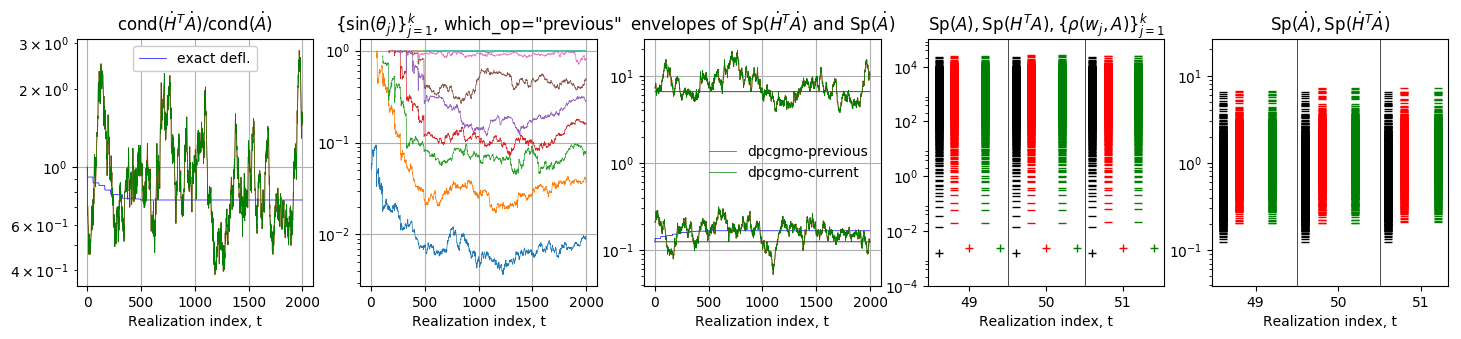
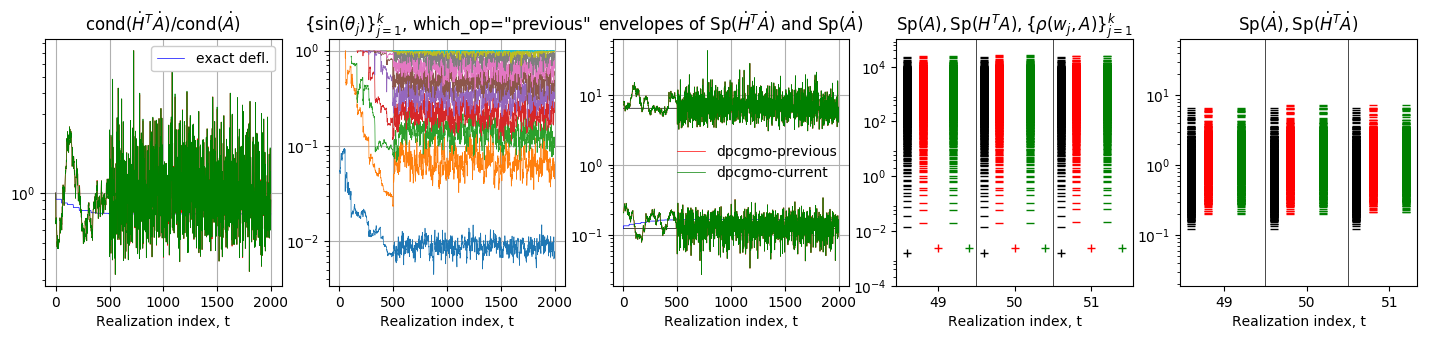
first-commit

diff --git a/examples/example05_recycler_dpcgmo_cases.py b/examples/example05_recycler_dpcgmo_cases.py
@@ -127,6 +127,11 @@ def get_params(case):
     sig2 = 0.50; L = 0.02; model = "Exp"
     kl = 20; kl_strategy = 1; ell_min = kl/4; nsmp = 2000
     t_end_def = 0; t_end_kl = 1000; t_switch_to_mc = 1000; ini_W = False
+  elif (case == "c11"):
+    precond_id = 2
+    sig2 = 0.50; L = 0.02; model = "Exp"
+    kl = 20; kl_strategy = 0; ell_min = kl/4; nsmp = 200
+    t_end_def = 0; t_end_kl = 0; t_switch_to_mc = 0; ini_W = True
 
 
   return precond_id, sig2, L, model, kl, kl_strategy, ell_min, nsmp, t_end_def, t_end_kl, t_switch_to_mc, ini_W, eigres_thresh

diff --git a/examples/example04_recycler_dcgmo_cases.py b/examples/example04_recycler_dcgmo_cases.py
@@ -2,6 +2,19 @@ def get_params(case):
   
   eigres_thresh = 1e0
 
+
+
+  if (len(case) > 6):
+    if (case[:6] == "medW-k"):
+      kdim = int(case[6:])
+
+      sig2 = 0.05; L = 0.02; model = "Exp"
+      kl = 20; kl_strategy = 0; ell_min = kl-kdim; nsmp = 200
+      t_end_def = 0; t_end_kl = 0; t_switch_to_mc = 0; ini_W = True
+
+
+
+
   if (case == "a"):
     sig2 = 0.05; L = 0.02; model = "Exp"
     kl = 20; kl_strategy = 0; ell_min = kl/2; nsmp = 10000

diff --git a/examples/example05_recycler_dpcgmo.py b/examples/example05_recycler_dpcgmo.py
@@ -16,7 +16,7 @@ nEl = 1000
 # nsmp       in {200}
 # precond_id in {1, 2, 3}
 
-case = "a10" # {"a", "b", "c"}
+case = "c11" # {"a", "b", "c"}
 precond_id, sig2, L, model, kl, kl_strategy, ell_min, nsmp, t_end_def, t_end_kl, t_switch_to_mc, ini_W, eigres_thresh = get_params(case)
 case = "example05_"+case
 

diff --git a/examples/example04_recycler_dcgmo.py b/examples/example04_recycler_dcgmo.py
@@ -14,7 +14,7 @@ nEl = 1000
 # model     in {"Exp", "SExp"}
 # kl        in {20, 50}
 
-case = "e7"
+case = "medW-k1"
 sig2, L, model, kl, kl_strategy, ell_min, nsmp, t_end_def, t_end_kl, t_switch_to_mc, ini_W, eigres_thresh = get_params(case)
 case = "example04_"+case
 

diff --git a/README.tex.md b/README.tex.md
@@ -1568,9 +1568,23 @@ _Example05_c10_ (`sig2`=`0.50`; `L`=`0.02`; `model`=`"Exp"`; `kl`=`20`; `kl_stra
 
 
 
+_Example05_c11_ (`sig2`=`0.50`; `L`=`0.02`; `model`=`"Exp"`; `kl`=`20`; `kl_strategy`=`0`; `ell_min`=`kl/4`; `nsmp`=`200`; `t_end_def`=`0`; `t_end_kl`=`0`; `t_switch_to_mc`=`0`; `ini_W`=`True`, `precond_id`=`2`):
 
+![](./figures/recycler_dpcgmo_example05_c11_mc1.png)
 
+![](./figures/recycler_dpcgmo_example05_c11_mc2.png)
 
+![](./figures/recycler_dpcgmo_example05_c11_mc3.png)
+
+![](./figures/recycler_dpcgmo_example05_c11_mc4.png)
+
+![](./figures/recycler_dpcgmo_example05_c11_mcmc1.png)
+
+![](./figures/recycler_dpcgmo_example05_c11_mcmc2.png)
+
+![](./figures/recycler_dpcgmo_example05_c11_mcmc3.png)
+
+![](./figures/recycler_dpcgmo_example05_c11_mcmc4.png)
 
 __Observations:__ 
 
